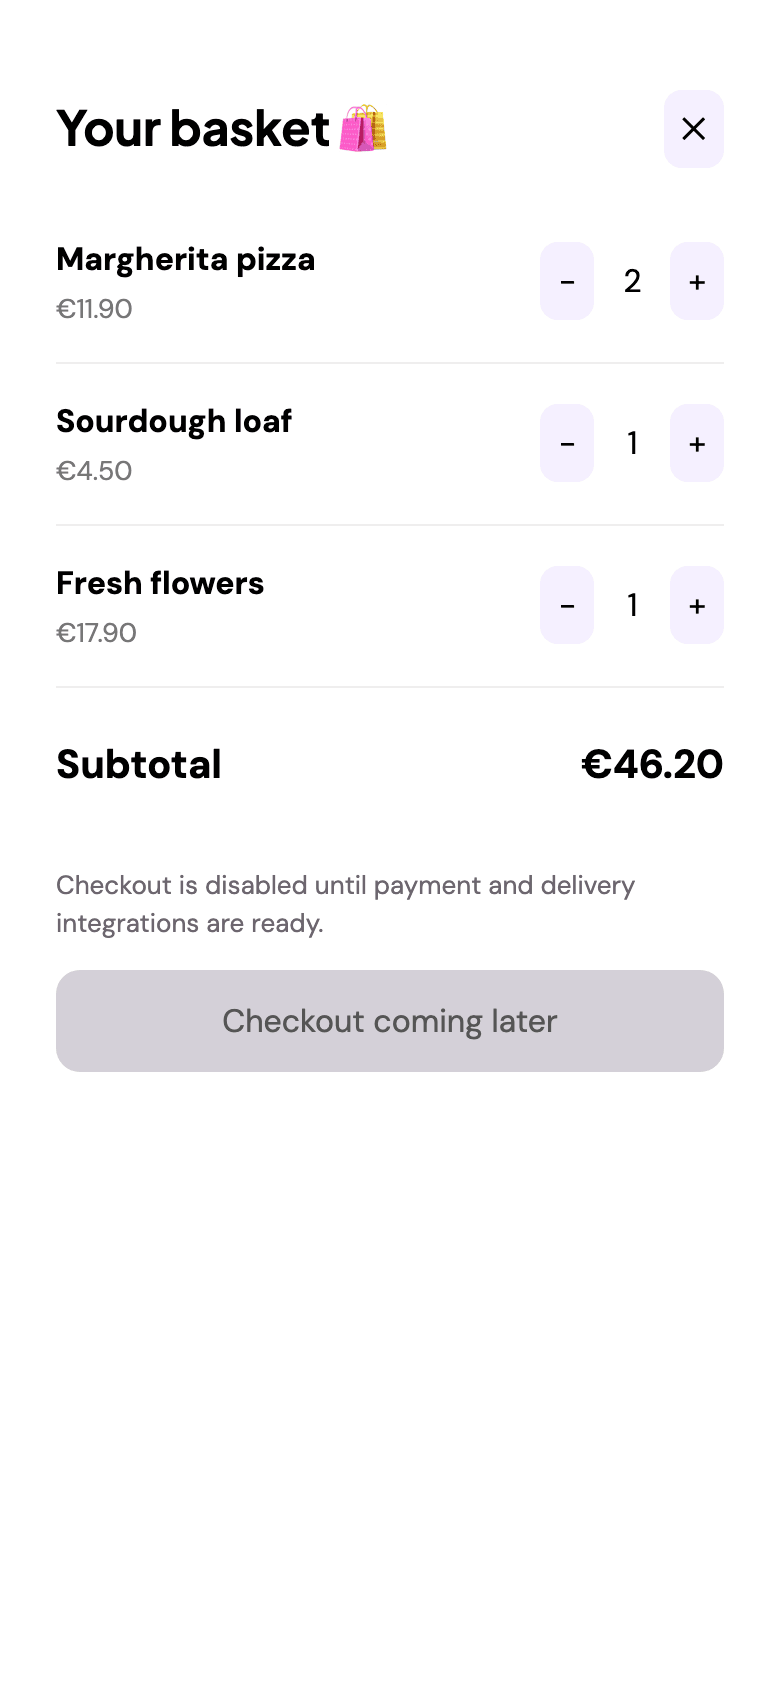
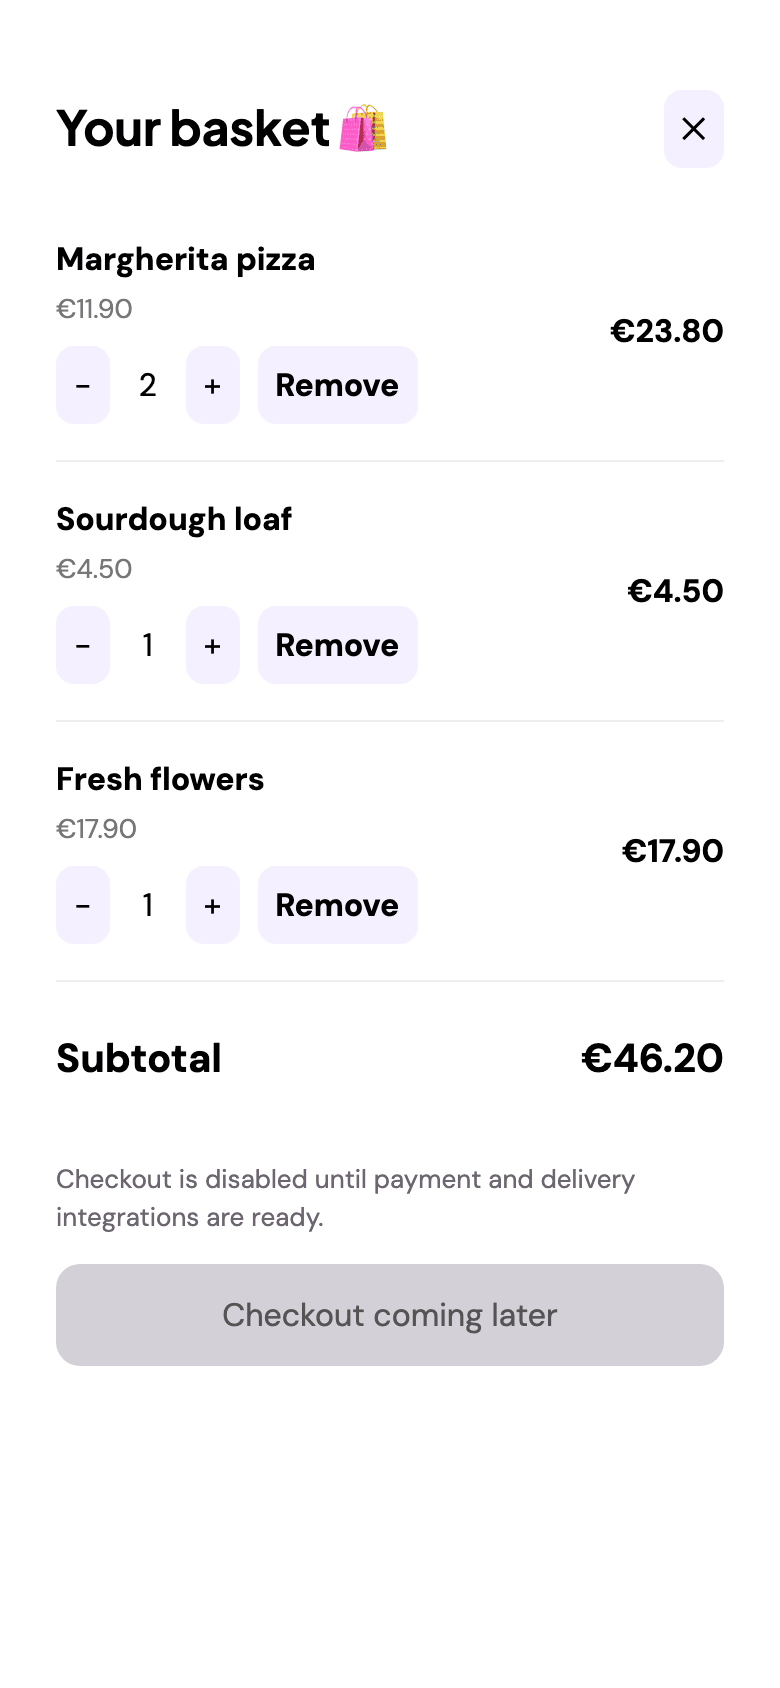
docs(screenshots): refresh web and native galleries after discovery and native shopping (#127)
* test(screenshots): detail captures on web and native, regenerate block fix

Refs #37

* docs(screenshots): refresh web gallery on main with merchant and product detail

Refs #37

* test(screenshots): iOS-safe detail assertions, sturdier Android demo mode

Refs #37

* test(screenshots): stricter native assertions, spec delta for detail captures

Refs #37

* test(screenshots): Maestro scrolls at 50% visibility with longer timeouts, regex cart count

Refs #37

* docs(screenshots): web gallery re-verified on merged main

Refs #37

* docs(screenshots): web gallery on main with sign-in notice and favourites

Refs #37

* docs(screenshots): Android gallery with product and cart screens from run 44902715301

Refs #37

* docs(screenshots): per-platform regenerate steps, trigger wording, review nits

Refs #37

---------

diff --git a/tests/screenshots/capture.spec.ts b/tests/screenshots/capture.spec.ts
@@ -7,15 +7,17 @@ const fixedTime=new Date(process.env.SCREENSHOT_CLOCK??'2026-11-20T09:41:00+01:0
 
 const pageErrors=new WeakMap<Page,string[]>();
 
-async function open(page:Page){
+async function open(page:Page,path='/'){
   const errors:string[]=[];
   page.on('pageerror',e=>errors.push(e.message));
   page.on('console',m=>{if(m.type()==='error')errors.push(m.text())});
   pageErrors.set(page,errors);
   await page.clock.setFixedTime(fixedTime);
-  await page.goto('/');
-  await expect(page.getByRole('heading',{name:'What are you craving?'})).toBeVisible();
-  await expect(page.getByRole('heading',{name:'Margherita pizza'})).toBeVisible();
+  await page.goto(path);
+  if(path==='/'){
+    await expect(page.getByRole('heading',{name:'What are you craving?'})).toBeVisible();
+    await expect(page.getByRole('heading',{name:'Margherita pizza'})).toBeVisible();
+  }
   await page.evaluate(()=>document.fonts.ready);
   const loaded=await page.evaluate(()=>[...document.fonts].filter(f=>f.status==='loaded').map(f=>f.family.replace(/"/g,'')));
   expect(loaded,'web fonts loaded (needs network access to Google Fonts)').toEqual(expect.arrayContaining(['Plus Jakarta Sans','DM Sans']));
@@ -64,4 +66,22 @@ test('cart with items',async({page})=>{
   await expect(dialog.getByRole('button',{name:'Checkout coming later'})).toBeDisabled();
   await page.locator('[data-cart-close]').blur();
   await shot(page,'cart',false);
+});
+
+test('merchant detail',async({page})=>{
+  await open(page,'/#/merchant/piazza-local');
+  await expect(page.getByTestId('sut-merchant-detail')).toBeVisible();
+  await expect(page.getByRole('heading',{level:1,name:'Piazza Local'})).toBeVisible();
+  await expect(page.getByTestId('sut-merchant-product-pizza')).toBeVisible();
+  await page.evaluate(()=>(document.activeElement as HTMLElement|null)?.blur());
+  await shot(page,'merchant-detail',false);
+});
+
+test('product detail',async({page})=>{
+  await open(page,'/#/product/pizza');
+  await expect(page.getByTestId('sut-detail-product')).toBeVisible();
+  await expect(page.getByRole('heading',{level:1,name:'Margherita pizza'})).toBeVisible();
+  await expect(page.getByTestId('sut-detail-price')).toHaveText('€11.90');
+  await page.evaluate(()=>(document.activeElement as HTMLElement|null)?.blur());
+  await shot(page,'product-detail',false);
 });

diff --git a/README.md b/README.md
@@ -41,45 +41,58 @@ SUT reference imagery captured from the real app. These are not Wopee or Appium 
 
 | | Desktop 1440x900 | Mobile 390x844 |
 | --- | --- | --- |
-| Catalogue | <img src="docs/screenshots/web/desktop-home.png" width="420" alt="Web catalogue on desktop: hero, category chips and all eight products"> | <img src="docs/screenshots/web/mobile-home.png" width="200" alt="Web catalogue on mobile: header, hero and search"> |
+| Catalogue | <img src="docs/screenshots/web/desktop-home.png" width="420" alt="Web catalogue on desktop: header with cart, sign-in notice and language switcher, hero, category chips including Favourites, all eight products and the merchant list"> | <img src="docs/screenshots/web/mobile-home.png" width="200" alt="Web catalogue on mobile: header with cart, sign-in notice and language switcher, hero and search"> |
 | Category: Groceries | <img src="docs/screenshots/web/desktop-category-groceries.png" width="420" alt="Groceries category selected, showing Sourdough loaf and Local apples"> | <img src="docs/screenshots/web/mobile-category-groceries.png" width="200" alt="Groceries category selected on mobile"> |
 | Search: "fresh" | <img src="docs/screenshots/web/desktop-search-fresh.png" width="420" alt="Search for fresh returns three products"> | <img src="docs/screenshots/web/mobile-search-fresh.png" width="200" alt="Search for fresh on mobile"> |
-| Cart with items | <img src="docs/screenshots/web/desktop-cart.png" width="420" alt="Basket dialog with two pizzas, a loaf and flowers, subtotal 46.20 euro, checkout disabled"> | <img src="docs/screenshots/web/mobile-cart.png" width="200" alt="Basket dialog on mobile"> |
+| Cart with items | <img src="docs/screenshots/web/desktop-cart.png" width="420" alt="Basket dialog with two pizzas, a loaf and flowers, line totals, subtotal 46.20 euro, checkout disabled"> | <img src="docs/screenshots/web/mobile-cart.png" width="200" alt="Basket dialog on mobile"> |
+| Merchant detail | <img src="docs/screenshots/web/desktop-merchant-detail.png" width="420" alt="Piazza Local merchant page with breadcrumb, favourite (heart) button, description and its Margherita pizza"> | <img src="docs/screenshots/web/mobile-merchant-detail.png" width="200" alt="Piazza Local merchant page on mobile"> |
+| Product detail | <img src="docs/screenshots/web/desktop-product-detail.png" width="420" alt="Margherita pizza product page: sold by Piazza Local, 11.90 euro, Add button"> | <img src="docs/screenshots/web/mobile-product-detail.png" width="200" alt="Margherita pizza product page on mobile"> |
 
 | Provenance | Web |
 | --- | --- |
-| SUT commit | [`3354ab6`](https://github.com/wopee-io-demos/tazumo/commit/3354ab63930c56ff8fb138e55c1682c54029a04c), the last change to `apps/web`, `packages` and workspace config, unchanged at `main` [`b1cd347`](https://github.com/wopee-io-demos/tazumo/commit/b1cd347bcc5bf6d96e35b36a4eb1b2807a46dce4) |
-| Fixture data | Synthetic catalogue in `packages/core/src/index.ts`; cart = 2x Margherita pizza, 1x Sourdough loaf, 1x Fresh flowers |
+| SUT commit | [`be970e2`](https://github.com/wopee-io-demos/tazumo/commit/be970e26633469e94876c5740051fcb1ed082179), the last change to `apps/web`, `packages` and workspace config at capture time |
+| Fixture data | Synthetic catalogue and merchants in `packages/core`; cart = 2x Margherita pizza, 1x Sourdough loaf, 1x Fresh flowers; detail pages for `piazza-local` and `pizza` |
 | Capture command | `bash scripts/capture-web-screenshots.sh` after `pnpm install` and `pnpm exec playwright install chromium`; needs `pngquant` and network access for Google Fonts. It runs `pnpm build`, serves `vite preview`, runs `tests/screenshots/capture.spec.ts` and replaces the gallery only when every capture passes |
 | Browser | Playwright 1.65.1, Chromium 159.0.8154.6, macOS arm64 host |
 | Viewports | Desktop 1440x900 @1x; mobile 390x844 @2x with touch |
 | Determinism | App language EN, locale en-IE, timezone Europe/Prague, light scheme, reduced motion, fixed clock, animations and caret disabled; a capture fails on page or console errors or missing web fonts; repeat runs are byte-identical on the same host |
 | Optimiser | pngquant 3.0.3 |
-| Captured | 2026-11-20 ([`provenance.json`](docs/screenshots/web/provenance.json)) |
+| Captured | 2026-11-21 ([`provenance.json`](docs/screenshots/web/provenance.json)) |
 
 ### iOS and Android
 
 | | iOS simulator | Android emulator |
 | --- | --- | --- |
 | Catalogue | <img src="docs/screenshots/ios/catalogue.png" width="240" alt="iOS app catalogue: header, hero, category pills and first products"> | <img src="docs/screenshots/android/catalogue.png" width="240" alt="Android app catalogue: header, hero, category pills and first products"> |
-| Cart with items | <img src="docs/screenshots/ios/cart.png" width="240" alt="iOS basket summary: 2x Margherita pizza, Sourdough loaf, Fresh flowers, subtotal 46.20 euro, checkout disabled"> | <img src="docs/screenshots/android/cart.png" width="240" alt="Android basket summary with the same four items and subtotal 46.20 euro"> |
+| Product screen | not captured yet (see below) | <img src="docs/screenshots/android/product.png" width="240" alt="Android product screen for Margherita pizza: back link, cart count, 11.90 euro, Add to cart button"> |
+| Inline basket | <img src="docs/screenshots/ios/cart.png" width="240" alt="iOS inline basket: 2x Margherita pizza, Sourdough loaf, Fresh flowers, subtotal 46.20 euro, checkout disabled"> | <img src="docs/screenshots/android/cart.png" width="240" alt="Android inline basket with the same four items, subtotal 46.20 euro, Checkout coming later and View cart"> |
+| Cart screen | not captured yet (see below) | <img src="docs/screenshots/android/cart-screen.png" width="240" alt="Android cart screen: three lines with steppers and Remove links, subtotal 46.20 euro, prototype notice, disabled checkout"> |
 
 | Provenance | iOS | Android |
 | --- | --- | --- |
-| Workflow run | [SUT screenshots #44817080915](https://github.com/wopee-io-demos/tazumo/actions/runs/44817080915) | same run |
-| SUT commit | [`3354ab6`](https://github.com/wopee-io-demos/tazumo/commit/3354ab63930c56ff8fb138e55c1682c54029a04c) (last change to `apps/mobile`, `packages`, workspace config) | same |
-| Capture commit | `b925225` on the [#57](https://github.com/wopee-io-demos/tazumo/pull/57) branch. Later commits in that PR only pinned the Maestro download and emulator action, forced Android light mode and added checksums and resolved versions to `provenance.json` | same |
+| Workflow run | [SUT screenshots #44817080915](https://github.com/wopee-io-demos/tazumo/actions/runs/44817080915) | [SUT screenshots #44902715301](https://github.com/wopee-io-demos/tazumo/actions/runs/44902715301) |
+| SUT commit | [`3354ab6`](https://github.com/wopee-io-demos/tazumo/commit/3354ab63930c56ff8fb138e55c1682c54029a04c), before the native product and cart screens (#45) | [`be970e2`](https://github.com/wopee-io-demos/tazumo/commit/be970e26633469e94876c5740051fcb1ed082179) (last change to `apps/mobile`, `packages`, workspace config at capture time) |
+| Capture commit | `b925225` on the [#57](https://github.com/wopee-io-demos/tazumo/pull/57) branch | `7e629c3` on the [#127](https://github.com/wopee-io-demos/tazumo/pull/127) branch |
 | Build | Release `iphonesimulator` build with the JS bundle embedded, unsigned | Release-variant APK with the JS bundle embedded, signed with the debug keystore, x86_64 |
-| Device | iPhone 16 Pro simulator on the iOS 26.2 runtime, built with Xcode 16.4 (iPhoneSimulator 18.5 SDK), hosted `macos-15` | `sdk_gphone64_x86_64` emulator, Android 14 (API 34), hosted `ubuntu-latest` with KVM |
+| Device | iPhone 16 Pro simulator on the iOS 26.2 runtime, Xcode 16.4 (iPhoneSimulator 18.5 SDK), hosted `macos-15` | `sdk_gphone64_x86_64` emulator, Android 14 (API 34), hosted `ubuntu-latest` with KVM |
 | Capture | `xcrun simctl io screenshot`; taps by Maestro 1.41.0 | `adb exec-out screencap -p`; taps by Maestro 1.41.0 |
-| Fixture data | Same synthetic catalogue and cart as the web gallery | same |
-| Captured | 2026-11-20 ([`provenance.json`](docs/screenshots/ios/provenance.json), [`SHA256SUMS`](docs/screenshots/ios/SHA256SUMS)) | 2026-11-20 ([`provenance.json`](docs/screenshots/android/provenance.json), [`SHA256SUMS`](docs/screenshots/android/SHA256SUMS)) |
+| Fixture data | Same synthetic catalogue and cart as the web gallery | same, plus the Margherita pizza product screen |
+| Captured | 2026-11-20 ([`provenance.json`](docs/screenshots/ios/provenance.json), [`SHA256SUMS`](docs/screenshots/ios/SHA256SUMS)) | 2026-11-21 ([`provenance.json`](docs/screenshots/android/provenance.json), [`SHA256SUMS`](docs/screenshots/android/SHA256SUMS)) |
 
-The PNGs and `provenance.json` are the exact files from the run's `tazumo-screenshots-ios` and `tazumo-screenshots-android` artifacts, optimised in CI with pngquant; `SHA256SUMS` was computed from the downloaded artifacts, so the match stays checkable after the artifacts expire (newer runs also write the checksums into `provenance.json`). To regenerate, run the [SUT screenshots workflow](.github/workflows/screenshots.yml) (`workflow_dispatch`, or any PR touching `apps/mobile/**`, `packages/**` or the capture files), then:
+The iOS gallery still shows the app before #45. iOS captures no longer run on pull requests: they run on `main`, nightly and on dispatch. On the iOS 27 simulator the app currently crashes at launch because it does not adopt the UIScene lifecycle ([#171](https://github.com/wopee-io-demos/tazumo/issues/171)). The iOS product-screen and cart-screen captures will be added from the first green iOS run after [#172](https://github.com/wopee-io-demos/tazumo/pull/172) pins the capture to an iOS 26.x runtime.
+
+The PNGs and `provenance.json` in each platform folder are the exact files from that platform's artifact (`tazumo-screenshots-ios` or `tazumo-screenshots-android`) of the run named in the table; iOS and Android can come from different runs. They were optimised in CI with pngquant. `SHA256SUMS` was computed from the downloaded artifact, so the match stays checkable after the artifacts expire; newer runs also write the checksums into `provenance.json`.
+
+To regenerate, use the [SUT screenshots workflow](.github/workflows/screenshots.yml). Android runs on pull requests that touch `apps/mobile/**` or `tests/screenshots/native/**`. iOS runs only on pushes to `main`, nightly and on `workflow_dispatch`, so take iOS from one of those runs. For each platform whose artifact the run has:
 
 ```sh
-gh run download <run-id> -n tazumo-screenshots-ios -D docs/screenshots/ios
-gh run download <run-id> -n tazumo-screenshots-android -D docs/screenshots/android
+p=android   # or ios
+run=<run-id>
+tmp="$(mktemp -d)"
+gh run download "$run" -n "tazumo-screenshots-$p" -D "$tmp"
+rm -f docs/screenshots/$p/*.png docs/screenshots/$p/provenance.json docs/screenshots/$p/SHA256SUMS
+cp "$tmp"/* docs/screenshots/$p/
+(cd docs/screenshots/$p && shasum -a 256 *.png > SHA256SUMS)
 ```
 
 Release builds are used because debug builds need a running Metro dev server.

diff --git a/openspec/changes/readme-screenshots/specs/sut-screenshots/spec.md b/openspec/changes/readme-screenshots/specs/sut-screenshots/spec.md
@@ -3,7 +3,7 @@
 ## ADDED Requirements
 
 ### Requirement: Web captures come from the real production build
-The repository SHALL provide one command that builds the web app, serves the production bundle and captures desktop and mobile PNGs of the catalogue, a category filter, search results and a cart containing items.
+The repository SHALL provide one command that builds the web app, serves the production bundle and captures desktop and mobile PNGs of the catalogue, a category filter, search results, a cart containing items, a merchant detail page and a product detail page.
 
 #### Scenario: Regenerate the web gallery
 - **WHEN** a maintainer runs `bash scripts/capture-web-screenshots.sh` after `pnpm install` and `pnpm exec playwright install chromium`
@@ -35,14 +35,14 @@ Each committed PNG SHALL be optimised and stay under about 300 KB.
 - **THEN** it quantises every PNG with `pngquant`, records the optimiser version in `provenance.json`, and fails without touching the gallery if `pngquant` is missing or any PNG exceeds 300 KB
 
 ### Requirement: Native captures come from simulator and emulator builds in CI
-The `SUT screenshots` workflow SHALL build the Expo app for the iOS simulator and the Android emulator on hosted runners, install and launch `io.wopee.demos.tazumo`, drive it to the catalogue and to a cart with items, capture with `xcrun simctl io screenshot` and `adb exec-out screencap`, and upload the PNGs with a `provenance.json` that names the workflow run, SUT commit, device, OS and build.
+The `SUT screenshots` workflow SHALL build the Expo app for the iOS simulator and the Android emulator on hosted runners, install and launch `io.wopee.demos.tazumo`, drive it to the catalogue, the product screen, the inline basket and the cart screen, capture with `xcrun simctl io screenshot` and `adb exec-out screencap`, and upload the PNGs with a `provenance.json` that names the workflow run, SUT commit, device, OS and build.
 
 #### Scenario: Publish native captures
 - **WHEN** a maintainer copies native PNGs into `docs/screenshots/ios/` or `docs/screenshots/android/`
 - **THEN** they are byte-identical to the artifact of the workflow run cited in the README
 
 #### Scenario: App does not reach the expected state
-- **WHEN** the catalogue text, the cart button or the subtotal €46.20 is not found
+- **WHEN** the catalogue text, the product screen, the cart button, the cart screen or the subtotal €46.20 is not found
 - **THEN** the job fails and uploads no screenshot artifact for that platform
 
 ### Requirement: Captures run only where a change can alter them

diff --git a/openspec/changes/readme-screenshots/tasks.md b/openspec/changes/readme-screenshots/tasks.md
@@ -13,6 +13,14 @@
 - [x] Android status bar: run 44811016593 showed a real clock; re-applying demo mode before each screencap gives a clean 9:41 in run 44817080915 (PNGs opened).
 - [x] PNGs and `provenance.json` of run 44817080915 copied into `docs/screenshots/ios/` and `docs/screenshots/android/`; `SHA256SUMS` computed from the downloaded artifacts and verified with `shasum -a 256 -c`. All four PNGs opened: real app, catalogue and cart with subtotal €46.20.
 - [x] Independent review of `b925225`: no blockers. Addressed: PNGs from the current-head run, README regenerate command uses `-D` per platform, checksums (committed `SHA256SUMS`; new runs write `pngSha256` and resolved Expo/React Native versions into `provenance.json`), Maestro downloaded from a pinned release with sha256 check, emulator action pinned to a commit SHA, numeric iOS runtime sort, iOS SDK/runtime stated, udid passed as an argument, Android light mode forced.
+- [x] Current-head CI green ([run 44824056454](https://github.com/wopee-io-demos/tazumo/actions/runs/44824056454)), two independent review passes, merged in #57 as `cdf4c54`.
+
+## Gallery refresh after #45, #50, #80, #81 (PR #127)
+- [x] Web gallery recaptured on capture commit `1863730` (web SUT `be970e2`) with merchant-detail and product-detail captures added, including the sign-in notice and Favourites; 12/12 captures passed; every PNG opened.
+- [x] Native flows extended to the product screen and the cart screen from #45 (`product-detail.yaml`, `back-to-catalogue.yaml`, `cart-screen.yaml`), using canonical `sut-*` testIDs.
+- [x] Android PNGs from [run 44902715301](https://github.com/wopee-io-demos/tazumo/actions/runs/44902715301) on `7e629c3` (SUT `be970e2`) committed byte-identical with `SHA256SUMS` (matches `pngSha256` in provenance); all four opened: catalogue, product, inline basket, cart screen, clean 9:41 status bar.
+- [ ] iOS product and cart-screen PNGs (iOS flow code unverified until the first green iOS run): blocked by the iOS 27 launch crash (#171) until #172 pins the capture to iOS 26.x; iOS gallery stays on run 44817080915 (pre-#45) and says so.
+- [x] README regenerate block removes old files before `gh run download` and rebuilds `SHA256SUMS`; provenance splits `os` and `toolchain`.
 - [ ] Current-head CI green, independent review recorded, merged; merge SHA on #37.
 
 ## Downstream
